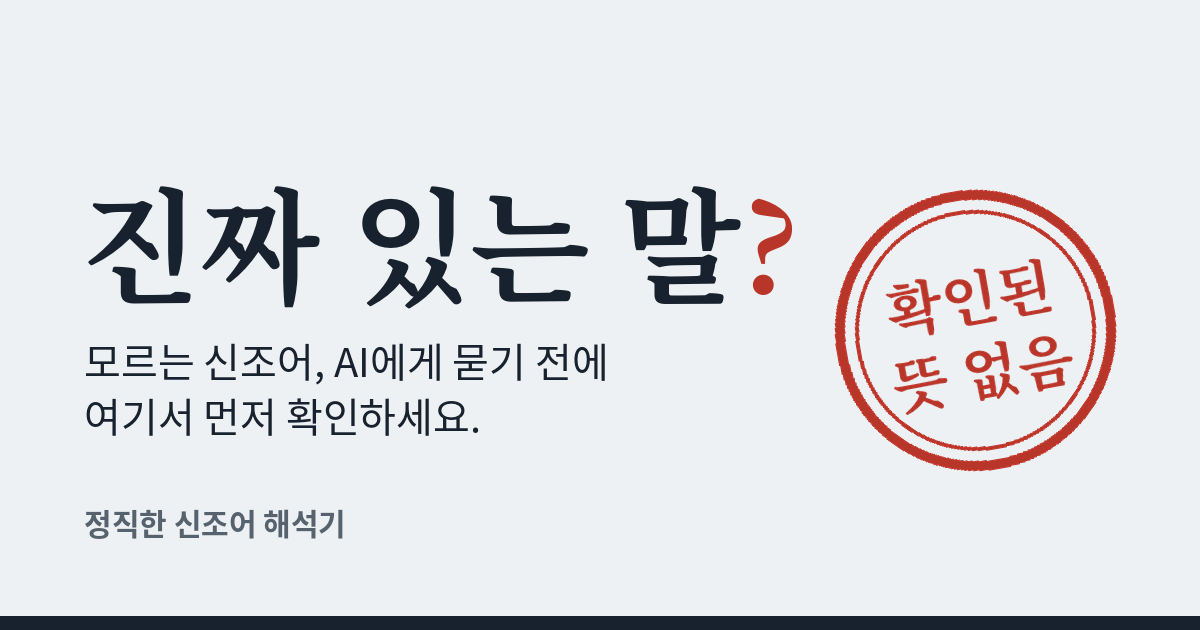
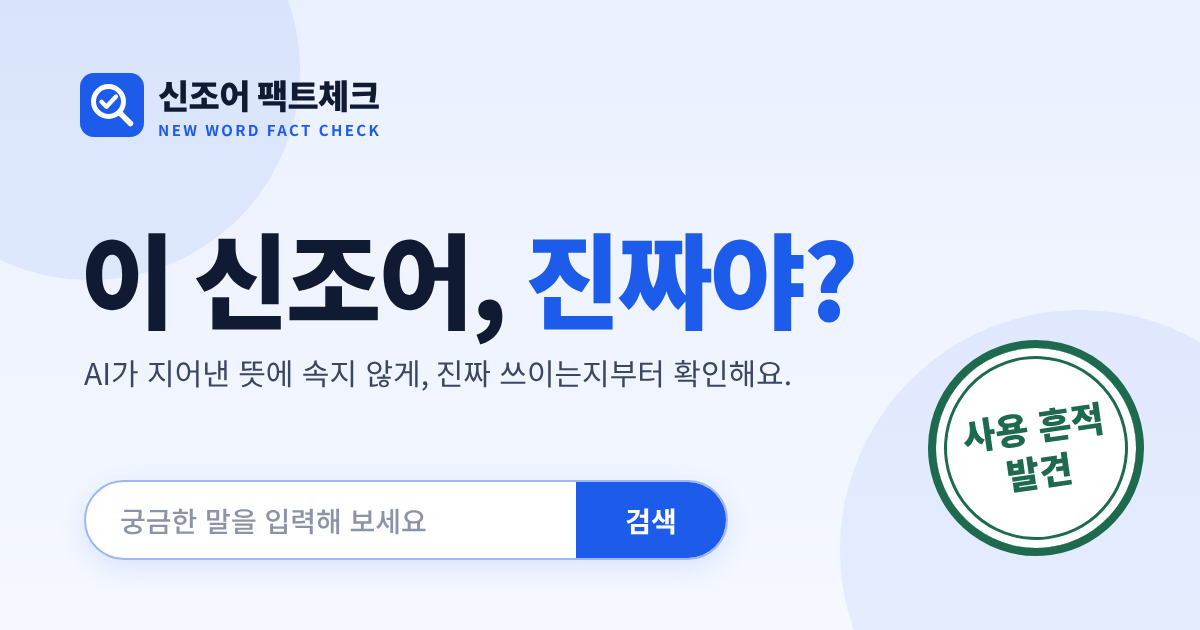
사이트 이름을 '신조어 팩트체크(NEW WORD FACT CHECK)'로, 첫 화면 제목을 '이 신조어, 진짜야?'로
- 로고(한글+영문 두 줄), 브라우저 탭 제목, 공유 미리보기, 홈 화면 앱 이름, 복사 글머리, README
- 새 앱 아이콘(돋보기+체크, 파란색)과 공유 미리보기 그림(og.png) 다시 만듦
- 검색칸 안내 문구를 짧게(휴대폰에서 잘리지 않게)

Claude-Session: https://claude.ai/code/session_01FK4EKqUMvJXpiu5C9URBJ9

diff --git a/paper.html b/paper.html
@@ -3,16 +3,16 @@
 <head>
 <meta charset="utf-8">
 <meta name="viewport" content="width=device-width, initial-scale=1, viewport-fit=cover">
-<title>논문 이야기 · 진짜 있는 말?</title>
-<meta name="description" content="‘진짜 있는 말?’의 근거 논문 요약: 모르는 신조어를 AI에게 묻기 전에, 그 말이 진짜 쓰이는지부터 확인해 주는 해석기. 쓰이는 말이면 뜻과 출처를, 흔적이 없으면 AI에게 안전하게 묻는 법을 알려 줍니다.">
+<title>논문 이야기 · 신조어 팩트체크</title>
+<meta name="description" content="‘신조어 팩트체크’의 근거 논문 요약: 모르는 신조어를 AI에게 묻기 전에, 그 말이 진짜 쓰이는지부터 확인해 주는 해석기. 쓰이는 말이면 뜻과 출처를, 흔적이 없으면 AI에게 안전하게 묻는 법을 알려 줍니다.">
 <meta name="theme-color" content="#1D5BEA">
 <link rel="manifest" href="manifest.webmanifest">
 <link rel="icon" href="icon.svg" type="image/svg+xml">
 <link rel="apple-touch-icon" href="icon-192.png">
 <!-- 링크 공유 미리보기. 공개 주소가 생기면 og:image 를 그 주소로 바꿔 주세요 (README 참고) -->
 <meta property="og:type" content="website">
-<meta property="og:site_name" content="진짜 있는 말?">
-<meta property="og:title" content="진짜 있는 말? · 정직한 신조어 해석기">
+<meta property="og:site_name" content="신조어 팩트체크">
+<meta property="og:title" content="신조어 팩트체크 · 이 신조어, 진짜야?">
 <meta property="og:description" content="모르는 신조어, AI에게 묻기 전에 진짜 쓰이는 말인지부터 확인하세요.">
 <meta property="og:image" content="https://paper-to-app.vercel.app/og.png">
 <meta property="og:image:width" content="1200">
@@ -28,7 +28,7 @@
 <a class="skip" href="#main">본문으로 건너뛰기</a>
 <header class="topbar">
   <div class="wrap topbar-in">
-    <a class="logo" href="./" aria-label="진짜 있는 말? 처음 화면"><svg viewBox="0 0 24 24" aria-hidden="true" focusable="false"><circle cx="11" cy="11" r="6.5"/><path d="M16 16l4.5 4.5"/></svg><span>진짜 있는 말?</span></a>
+    <a class="logo" href="./" aria-label="신조어 팩트체크 처음 화면"><svg viewBox="0 0 24 24" aria-hidden="true" focusable="false"><circle cx="11" cy="11" r="6.5"/><path d="M16 16l4.5 4.5"/></svg><span class="logo-t"><span class="logo-ko">신조어 팩트체크</span><span class="logo-en">NEW WORD FACT CHECK</span></span></a>
     <button type="button" class="menu-btn" id="menu-btn" aria-expanded="false" aria-controls="nav" aria-label="메뉴 열기"><svg viewBox="0 0 24 24" aria-hidden="true" focusable="false"><path d="M4 7h16M4 12h16M4 17h16"/></svg></button>
     <nav id="nav" class="nav" aria-label="주요 메뉴">
       <ul>
@@ -48,7 +48,7 @@
   <div class="wrap hero-in">
     <p class="kicker">논문 이야기</p>
     <h1 class="brand brand-sub">AI는 모르는 신조어 앞에서 <span class="hl">모른다고 말할까?</span></h1>
-    <p class="lead">“진짜 있는 말?”은 이 연구의 결과로 만든 앱이에요. 연구가 무엇을 밝혔고, 앱이 그 결과를 어떻게 쓰는지만 짧게 정리했어요.</p>
+    <p class="lead">“신조어 팩트체크”는 이 연구의 결과로 만든 앱이에요. 연구가 무엇을 밝혔고, 앱이 그 결과를 어떻게 쓰는지만 짧게 정리했어요.</p>
     <p class="paper"><cite>「AI는 모르는 신조어 앞에서 모른다고 말하는가 — 한국어 가짜 신조어의 형성 방식과 AI의 뜻 지어내기」</cite> (김가은, 2026, SKT ALEPH 과정) <span id="paper-link-row" hidden>· <a id="paper-link" target="_blank" rel="noopener">논문 원문 보기 ↗</a></span></p>
     <p><a class="back-link" href="./">← 말 찾기로 돌아가기</a></p>
   </div>
@@ -167,7 +167,7 @@
 </main>
 
 <footer class="foot">
-  <div class="wrap"><p>진짜 있는 말? · 김가은 (2026)</p></div>
+  <div class="wrap"><p>신조어 팩트체크 · NEW WORD FACT CHECK · 김가은 (2026)</p></div>
 </footer>
 <script src="config.js"></script>
 <script src="nav.js"></script>

diff --git a/index.html b/index.html
@@ -3,7 +3,7 @@
 <head>
 <meta charset="utf-8">
 <meta name="viewport" content="width=device-width, initial-scale=1, viewport-fit=cover">
-<title>진짜 있는 말? · 정직한 신조어 해석기</title>
+<title>신조어 팩트체크 · 이 신조어, 진짜야?</title>
 <meta name="description" content="모르는 신조어를 AI에게 묻기 전에, 그 말이 진짜 쓰이는지부터 확인해 주는 해석기. 쓰이는 말이면 뜻과 출처를, 흔적이 없으면 AI에게 안전하게 묻는 법을 알려 줍니다.">
 <meta name="theme-color" content="#1D5BEA">
 <link rel="manifest" href="manifest.webmanifest">
@@ -11,8 +11,8 @@
 <link rel="apple-touch-icon" href="icon-192.png">
 <!-- 링크 공유 미리보기. 공개 주소가 생기면 og:image 를 그 주소로 바꿔 주세요 (README 참고) -->
 <meta property="og:type" content="website">
-<meta property="og:site_name" content="진짜 있는 말?">
-<meta property="og:title" content="진짜 있는 말? · 정직한 신조어 해석기">
+<meta property="og:site_name" content="신조어 팩트체크">
+<meta property="og:title" content="신조어 팩트체크 · 이 신조어, 진짜야?">
 <meta property="og:description" content="모르는 신조어, AI에게 묻기 전에 진짜 쓰이는 말인지부터 확인하세요.">
 <meta property="og:image" content="https://paper-to-app.vercel.app/og.png">
 <meta property="og:image:width" content="1200">
@@ -28,7 +28,7 @@
 <a class="skip" href="#main">본문으로 건너뛰기</a>
 <header class="topbar">
   <div class="wrap topbar-in">
-    <a class="logo" href="./" aria-label="진짜 있는 말? 처음 화면"><svg viewBox="0 0 24 24" aria-hidden="true" focusable="false"><circle cx="11" cy="11" r="6.5"/><path d="M16 16l4.5 4.5"/></svg><span>진짜 있는 말?</span></a>
+    <a class="logo" href="./" aria-label="신조어 팩트체크 처음 화면"><svg viewBox="0 0 24 24" aria-hidden="true" focusable="false"><circle cx="11" cy="11" r="6.5"/><path d="M16 16l4.5 4.5"/></svg><span class="logo-t"><span class="logo-ko">신조어 팩트체크</span><span class="logo-en">NEW WORD FACT CHECK</span></span></a>
     <button type="button" class="menu-btn" id="menu-btn" aria-expanded="false" aria-controls="nav" aria-label="메뉴 열기"><svg viewBox="0 0 24 24" aria-hidden="true" focusable="false"><path d="M4 7h16M4 12h16M4 17h16"/></svg></button>
     <nav id="nav" class="nav" aria-label="주요 메뉴">
       <ul>
@@ -46,7 +46,7 @@
 
 <section class="hero" id="top">
   <div class="wrap hero-in">
-    <h1 class="brand">진짜 <span class="hl">있는 말?</span></h1>
+    <h1 class="brand">이 신조어, <span class="hl">진짜야?</span></h1>
     <p class="tagline">AI가 대답한 말, 정말 있는 말인지 확인해 보세요!</p>
     <p class="lead">이 앱은 모르는 신조어를 만난 사람이 AI가 지어낸 뜻에 속지 않게, <strong>그 말이 진짜 쓰이는지부터</strong> 확인해 줍니다.</p>
     <form id="find-form" class="field search-pill" autocomplete="off" novalidate role="search">
@@ -54,7 +54,7 @@
         <label for="q" class="visually-hidden">찾을 말</label>
         <span class="sp-ico"><svg viewBox="0 0 24 24" aria-hidden="true" focusable="false"><circle cx="11" cy="11" r="6.5"/><path d="M16 16l4.5 4.5"/></svg></span>
         <input id="q" name="q" type="search" inputmode="search" enterkeyhint="search" maxlength="200"
-               placeholder="궁금한 말을 입력해 보세요 (예: 얼죽아)" role="combobox" aria-autocomplete="list"
+               placeholder="궁금한 신조어를 입력해 보세요" role="combobox" aria-autocomplete="list"
                aria-expanded="false" aria-controls="ac">
         <ul id="ac" class="ac" role="listbox" aria-label="추천하는 말" hidden></ul>
       </div>

diff --git a/app.js b/app.js
@@ -294,7 +294,7 @@
   }
   function copyText(word, statusKey, lines, rows) {
     var s = STATUS[statusKey];
-    return ['[진짜 있는 말?] “' + word + '” 확인 결과', '상태: ' + s.tag + ' — ' + s.text]
+    return ['[신조어 팩트체크] “' + word + '” 확인 결과', '상태: ' + s.tag + ' — ' + s.text]
       .concat(lines || [])
       .concat(rows && rows.length ? ['확인 근거', evidenceText(rows)] : [])
       .concat(shareUrl(word) ? ['결과 다시 보기: ' + shareUrl(word)] : [])
@@ -316,7 +316,7 @@
       h('button', { class: 'act', type: 'button', text: '결과 지우기', onclick: clearFind }),
       first ? h('a', { class: 'act', href: first, target: '_blank', rel: 'noopener', text: '출처 바로가기 ↗' }) : null,
       withCheck ? h('button', { class: 'link', type: 'button', text: '받은 AI 답 점검하기', onclick: function () { $('cw').value = display; updateCheckUi(); selectTab('check', true); $('ca').focus(); } }) : null,
-      h('button', { class: 'link', type: 'button', text: '이 결과 공유하기', onclick: function () { shareLink({ q: display }, display + ' · 진짜 있는 말?'); } }),
+      h('button', { class: 'link', type: 'button', text: '이 결과 공유하기', onclick: function () { shareLink({ q: display }, display + ' · 신조어 팩트체크'); } }),
       CONFIG.reportUrl && safeLink(CONFIG.reportUrl) ? h('a', { class: 'link', href: CONFIG.reportUrl, target: '_blank', rel: 'noopener', text: '빠진 말 알려 주기' }) : null
     ]);
   }
@@ -932,7 +932,7 @@
       scoreText() ? h('p', { class: 'src', text: scoreText() }) : null
     ]));
     // 5. 다시 분석 · 결과 복사 (요구서 4-3)
-    var copyBody = ['[진짜 있는 말?] AI 답 점검 결과' + (word ? ' · 물어본 말 “' + word + '”' : ''),
+    var copyBody = ['[신조어 팩트체크] AI 답 점검 결과' + (word ? ' · 물어본 말 “' + word + '”' : ''),
       '답변 유형: ' + CODE_NAME[r.code] + ' — ' + v.title,
       '판단 근거(실제 답변 문장):'].concat(quotes.length ? quotes.map(function (q) { return '  “' + q.plain + '”'; }) : ['  판단에 쓸 표현 없음'])
       .concat(['분석 설명:'], points.map(function (t) { return '  - ' + t; }), [

diff --git a/style.css b/style.css
@@ -945,3 +945,8 @@ a { color: var(--brand); }
 @media (max-width: 700px) { .chos { grid-template-columns: repeat(7, minmax(0, 1fr)); max-width: 420px; margin-left: auto; margin-right: auto; } }
 .small-pill input[type=search] { flex: 1 1 0; width: 0; }
 .home { grid-template-columns: minmax(0, 1fr); }
+
+/* ── 8차: 사이트 이름 '신조어 팩트체크' 로고 (한글 + 영문 두 줄) ── */
+.logo-t { display: inline-flex; flex-direction: column; line-height: 1.1; }
+.logo-ko { font-size: 19px; font-weight: 800; letter-spacing: -0.02em; }
+.logo-en { font-size: 10.5px; font-weight: 700; letter-spacing: .14em; color: var(--brand); }

diff --git a/sw.js b/sw.js
@@ -1,6 +1,6 @@
 // 인터넷이 끊겨도 열리도록 화면 파일을 보관한다. 항상 새 버전을 먼저 시도한다.
 // 화면 파일을 고쳐 다시 배포할 때는 CACHE 이름의 숫자를 올려 주세요.
-var CACHE = 'jinjja-v13';
+var CACHE = 'jinjja-v14';
 var FILES = ['./', 'index.html', 'paper.html', 'nav.js', 'style.css', 'config.js', 'data.js', 'checker_score.js', 'logic.js', 'app.js', 'manifest.webmanifest', 'icon.svg', 'icon-192.png'];
 self.addEventListener('install', function (e) {
   e.waitUntil(caches.open(CACHE).then(function (c) { return c.addAll(FILES); }).then(function () { return self.skipWaiting(); }));

diff --git a/README.md b/README.md
@@ -1,4 +1,4 @@
-# 진짜 있는 말? — 정직한 신조어 해석기
+# 신조어 팩트체크 (NEW WORD FACT CHECK) — 이 신조어, 진짜야?
 
 이 앱은 모르는 신조어를 만난 사람이 AI가 지어낸 뜻에 속지 않게, **그 말이 진짜 쓰이는지부터** 확인해 줍니다. 쓰이는 말이면 뜻과 출처를, 쓰인 흔적이 없으면 AI에게 안전하게 묻는 법을 알려 줍니다.
 
